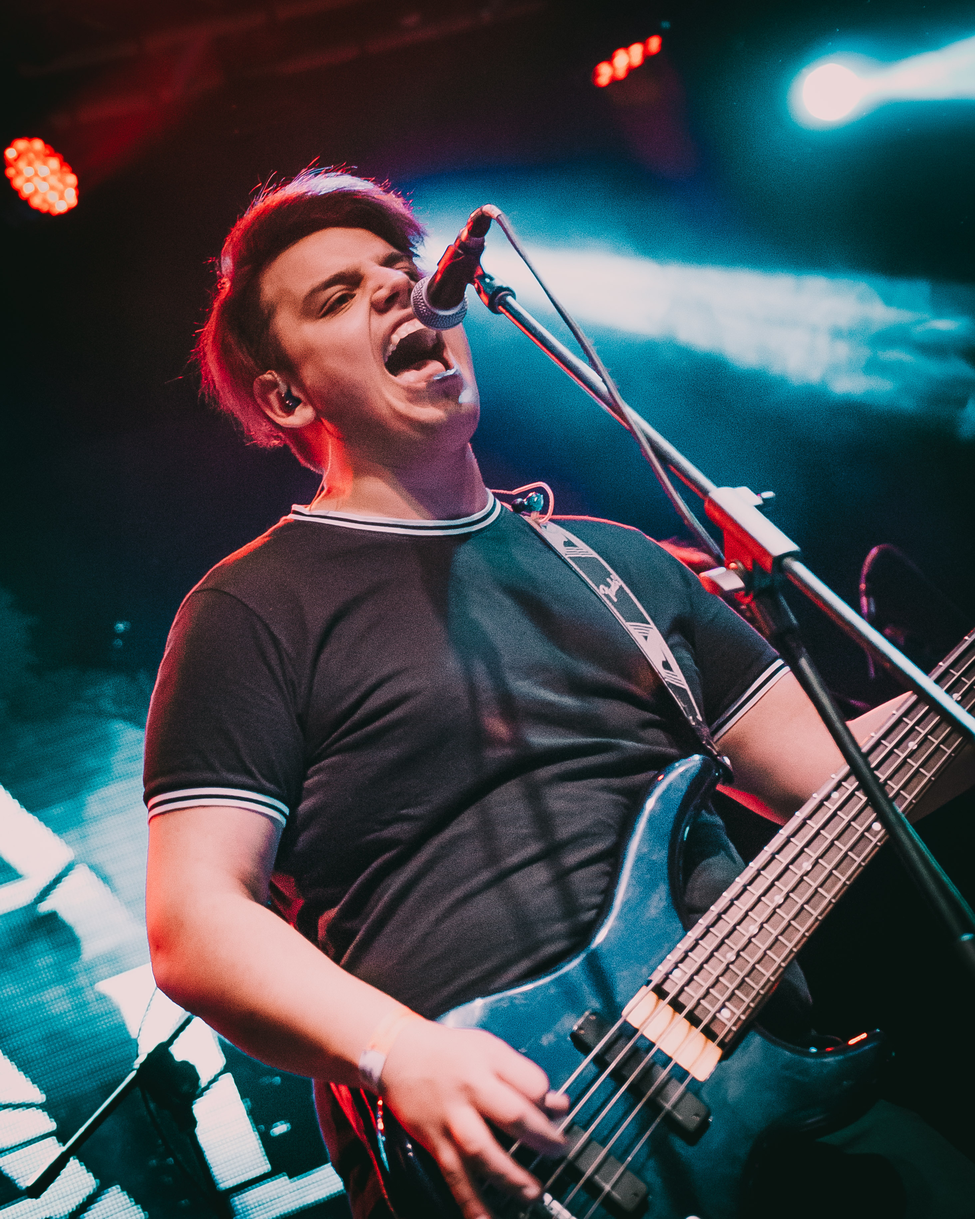
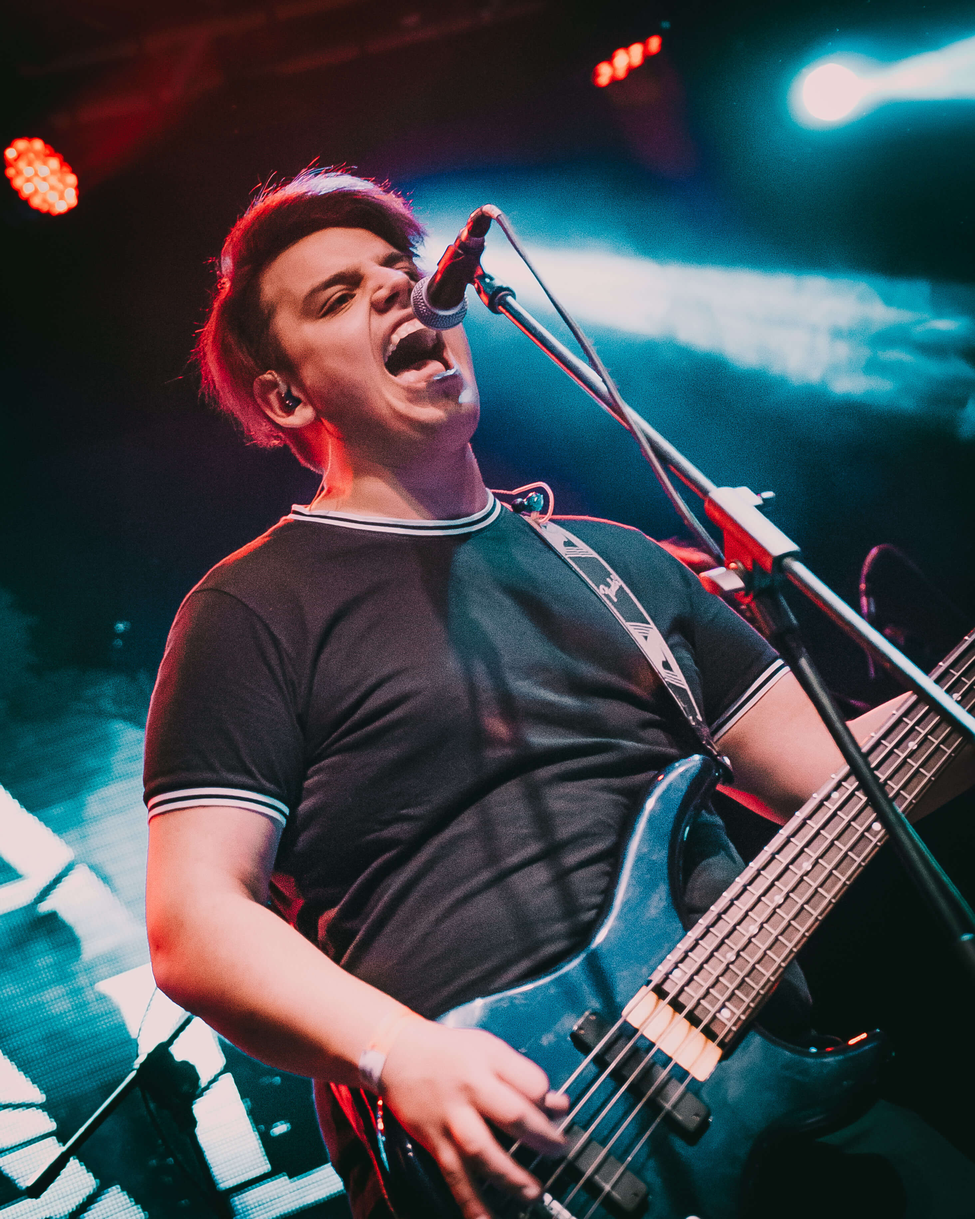
Agrego imagenes comprimidas

diff --git a/paginas/conocenos.html b/paginas/conocenos.html
@@ -1,6 +1,5 @@
 <!DOCTYPE html>
 <html lang="es">
-
 <head>
   <meta charset="UTF-8">
   <meta http-equiv="X-UA-Compatible" content="IE=edge">
@@ -14,13 +13,12 @@
   <link href="https://fonts.googleapis.com/css2?family=Roboto&display=swap" rel="stylesheet">
   <title>En la Verdad | Conocenos</title>
 </head>
-
 <body class="layout">
   <header class="encabezado">
     <nav class="navbar navbar-expand-lg navbar-light">
       <div class="container-fluid">
         <a class="navbar-brand" href="#">
-          <img src="../imagenes/Logo.png" alt="..." height="250">
+          <img src="../imagenes/Logo.png" alt="Logo de la banda" height="250">
         </a>
         <button class="navbar-toggler" type="button" data-bs-toggle="collapse" data-bs-target="#navbarNav"
           aria-controls="navbarNav" aria-expanded="false" aria-label="Toggle navigation">
@@ -55,19 +53,19 @@
         <div class="row">
           <div class="cards">
             <div class="card">
-              <img class="card-img" src="../imagenes/Joel.jpg" alt="">
+              <img class="card-img" src="../imagenes/Joel.jpg" alt="Foto Joel">
               <p class="card-desc"><strong>Joel Rivero</strong>.<br> Tiene 23 años, y es el engargado de las voces
                 guturales y el bajo. Sus influencias son del genero Nu Metal y Metalcore, bandas como "Linkin Park", "I
                 Prevail" y "Asking Alexandria". <br>Estudiante de Ingenieria Informatica y fanatico de San Lorenzo.</p>
             </div>
             <div class="card">
-              <img src="../imagenes/Lucas.jpg" alt="">
+              <img src="../imagenes/Lucas.jpg" alt="Foto Lucas">
               <p class="card-desc"><strong>Lucas Sosa</strong>.<br> Tiene 26 años, de Zona Norte y encargado de las 6
                 cuerdas. Sus influencias son del genero Metalcore y Post-Hardcore". <br>Tatuador, barbero y ferretero.
               </p>
             </div>
             <div class="card">
-              <img src="../imagenes/Elias.jpg" alt="">
+              <img src="../imagenes/Elias.jpg" alt="Foto Elias">
               <p class="card-desc"><strong>Elias Moreno</strong>.<br> 21 años, el menor de la banda y a cargo de la
                 segunda Guitarra. Sus influencias parten desde el Metalcore como "Wage War" y "Electric
                 Callboy"<br>Productor de Infinity Studios y de todo el contenido musical de En La Verdad </p>
@@ -77,15 +75,16 @@
         <div class="row">
           <div class="cards">
             <div class="card">
-              <img class="card-img" src="../imagenes/Alexis.jpg" alt="">
+              <img class="card-img" src="../imagenes/Alexis.jpg" alt="Foto Alexis">
               <p class="card-desc"><strong>Alexis Fusco</strong>.<br> Tiene 26 años, encargado de hacer ruido en la
                 Bateria y no dejar afinar a sus compañeros. Fanatico de Counterparts y de Boca<br></p>
             </div>
             <div class="card">
-              <img src="../imagenes/Javier.jpg" alt="">
+              <img src="../imagenes/Javier.jpg" alt="Foto Javier">
               <p class="card-desc"><strong>Javier Muñoz</strong>.<br> 26 años, de Zona Sur y el ultimo en sumarse a la
                 banda. <br> Con su Voz aporta lo melodico de la banda. Sus mayor influencia es Bring Me The Horizon.
-                <br> Perfil bajo y tranquilo pero con una creatividad asombrosa</p>
+                <br> Perfil bajo y tranquilo pero con una creatividad asombrosa
+              </p>
             </div>
           </div>
         </div>
@@ -97,22 +96,22 @@
       redes</div>
     <div class="container pt-1">
       <section class="mb-4">
-        <a class="btn btn-link btn-floating btn-lg text-white m-1" href="https://www.instagram.com/elv_oficial/" role="button"
-          data-mdb-ripple-color="dark"><i class="bi bi-instagram"></i></a>
-        <a class="btn btn-link btn-floating btn-lg text-white m-1" href="https://www.youtube.com/channel/UC6ehvfCDIocdnb-Q9tWUNMA" role="button"
-          data-mdb-ripple-color="dark"><i class="bi bi-youtube"></i></a>
-        <a class="btn btn-link btn-floating btn-lg text-white m-1" href="https://open.spotify.com/artist/7zrt5nT90clpSb9X8XtUqd?si=WhZ6xYAmTBC2sabjODp7Jw" role="button"
+        <a class="btn btn-link btn-floating btn-lg text-white m-1" href="https://www.instagram.com/elv_oficial/"
+          role="button" data-mdb-ripple-color="dark"><i class="bi bi-instagram"></i></a>
+        <a class="btn btn-link btn-floating btn-lg text-white m-1"
+          href="https://www.youtube.com/channel/UC6ehvfCDIocdnb-Q9tWUNMA" role="button" data-mdb-ripple-color="dark"><i
+            class="bi bi-youtube"></i></a>
+        <a class="btn btn-link btn-floating btn-lg text-white m-1"
+          href="https://open.spotify.com/artist/7zrt5nT90clpSb9X8XtUqd?si=WhZ6xYAmTBC2sabjODp7Jw" role="button"
           data-mdb-ripple-color="dark"><i class="bi bi-spotify"></i></a>
         <a class="btn btn-link btn-floating btn-lg text-white m-1" href="https://twitter.com/enlaverdad1" role="button"
           data-mdb-ripple-color="dark"><i class="bi bi-twitter"></i></a>
-        <a class="btn btn-link btn-floating btn-lg text-white m-1" href="https://www.tiktok.com/@enlaverdadoficial" role="button"
-          data-mdb-ripple-color="dark"><i class="bi bi-tiktok"></i></a>
+        <a class="btn btn-link btn-floating btn-lg text-white m-1" href="https://www.tiktok.com/@enlaverdadoficial"
+          role="button" data-mdb-ripple-color="dark"><i class="bi bi-tiktok"></i></a>
       </section>
     </div>
   </footer>
 </body>
-
 <script src="https://cdn.jsdelivr.net/npm/bootstrap@5.2.0-beta1/dist/js/bootstrap.bundle.min.js"
   integrity="sha384-pprn3073KE6tl6bjs2QrFaJGz5/SUsLqktiwsUTF55Jfv3qYSDhgCecCxMW52nD2" crossorigin="anonymous"></script>
-
 </html>

diff --git a/index.html b/index.html
@@ -20,7 +20,7 @@
     <nav class="navbar navbar-expand-lg navbar-light">
       <div class="container-fluid">
         <a class="navbar-brand" href="#">
-          <img src="./imagenes/Logo.png" alt="..." height="250">
+          <img src="./imagenes/Logo.png" alt="Logo de la banda" height="250">
         </a>
         <button class="navbar-toggler" type="button" data-bs-toggle="collapse" data-bs-target="#navbarNav"
           aria-controls="navbarNav" aria-expanded="false" aria-label="Toggle navigation">
@@ -55,13 +55,13 @@
       <div id="carouselExampleFade" class="carousel slide carousel-fade" data-bs-ride="carousel">
         <div class="carousel-inner">
           <div class="carousel-item active d-flex justify-content-center">
-            <img src="./imagenes/FotoCarrusel1.jpeg" class="d-block w-100" alt="...">
+            <img src="./imagenes/FotoCarrusel1.jpeg" class="d-block w-100" alt="Foto de la banda">
           </div>
           <div class="carousel-item d-flex justify-content-center">
-            <img src="./imagenes/FotoCarrusel2.jpg" class="d-block w-100" alt="...">
+            <img src="./imagenes/FotoCarrusel2.jpg" class="d-block w-100" alt="Foto de la banda 2">
           </div>
           <div class="carousel-item d-flex justify-content-center">
-            <img src="./imagenes/FotoCarrusel3.jpg" class="d-block w-100" alt="...">
+            <img src="./imagenes/FotoCarrusel3.jpg" class="d-block w-100" alt="Foto de la banda 3">
           </div>
         </div>
         <button class="carousel-control-prev" type="button" data-bs-target="#carouselExampleFade" data-bs-slide="prev">
@@ -74,7 +74,6 @@
         </button>
       </div>
     </div>
-
     <div class="container-md">
       <div class="row justify-content-center">
         <div class="col-sm-5">
@@ -105,29 +104,27 @@
       </div>
     </div>
   </main>
-
   <footer class="text-center text-white bg-dark">
     <div class="text-left text-white p-3" style="background-color: rgba(0, 0, 0, 0.2);">Encontranos tambien en
       nuestras redes</div>
     <div class="container pt-1">
       <section class="mb-4">
-        <a class="btn btn-link btn-floating btn-lg text-white m-1" href="https://www.instagram.com/elv_oficial/" role="button"
-          data-mdb-ripple-color="dark"><i class="bi bi-instagram"></i></a>
-        <a class="btn btn-link btn-floating btn-lg text-white m-1" href="https://www.youtube.com/channel/UC6ehvfCDIocdnb-Q9tWUNMA" role="button"
-          data-mdb-ripple-color="dark"><i class="bi bi-youtube"></i></a>
-        <a class="btn btn-link btn-floating btn-lg text-white m-1" href="https://open.spotify.com/artist/7zrt5nT90clpSb9X8XtUqd?si=WhZ6xYAmTBC2sabjODp7Jw" role="button"
+        <a class="btn btn-link btn-floating btn-lg text-white m-1" href="https://www.instagram.com/elv_oficial/"
+          role="button" data-mdb-ripple-color="dark"><i class="bi bi-instagram"></i></a>
+        <a class="btn btn-link btn-floating btn-lg text-white m-1"
+          href="https://www.youtube.com/channel/UC6ehvfCDIocdnb-Q9tWUNMA" role="button" data-mdb-ripple-color="dark"><i
+            class="bi bi-youtube"></i></a>
+        <a class="btn btn-link btn-floating btn-lg text-white m-1"
+          href="https://open.spotify.com/artist/7zrt5nT90clpSb9X8XtUqd?si=WhZ6xYAmTBC2sabjODp7Jw" role="button"
           data-mdb-ripple-color="dark"><i class="bi bi-spotify"></i></a>
         <a class="btn btn-link btn-floating btn-lg text-white m-1" href="https://twitter.com/enlaverdad1" role="button"
           data-mdb-ripple-color="dark"><i class="bi bi-twitter"></i></a>
-        <a class="btn btn-link btn-floating btn-lg text-white m-1" href="https://www.tiktok.com/@enlaverdadoficial" role="button"
-          data-mdb-ripple-color="dark"><i class="bi bi-tiktok"></i></a>
+        <a class="btn btn-link btn-floating btn-lg text-white m-1" href="https://www.tiktok.com/@enlaverdadoficial"
+          role="button" data-mdb-ripple-color="dark"><i class="bi bi-tiktok"></i></a>
       </section>
     </div>
   </footer>
-
 </body>
-
 <script src="https://cdn.jsdelivr.net/npm/bootstrap@5.2.0-beta1/dist/js/bootstrap.bundle.min.js"
   integrity="sha384-pprn3073KE6tl6bjs2QrFaJGz5/SUsLqktiwsUTF55Jfv3qYSDhgCecCxMW52nD2" crossorigin="anonymous"></script>
-
 </html>

diff --git a/paginas/eventos.html b/paginas/eventos.html
@@ -19,7 +19,7 @@
     <nav class="navbar navbar-expand-lg navbar-light">
       <div class="container-fluid">
         <a class="navbar-brand" href="#">
-          <img src="../imagenes/Logo.png" alt="..." height="250">
+          <img src="../imagenes/Logo.png" alt="Logo de la banda" height="250">
         </a>
         <button class="navbar-toggler" type="button" data-bs-toggle="collapse" data-bs-target="#navbarNav"
           aria-controls="navbarNav" aria-expanded="false" aria-label="Toggle navigation">
@@ -55,7 +55,7 @@
           <div class="card-body">
             <h5 class="card-title">30 DE JULIO - HUMBOLT</h5>
           </div>
-          <img src="../imagenes/Humbolt.png" class="card-img-top" alt="...">
+          <img src="../imagenes/Humbolt.png" class="card-img-top" alt="Flyer fecha del 30 de julio">
           <ul class="list-group list-group-flush">
             <li class="list-group-item">Humbolt Niceto Club</li>
             <li class="list-group-item">Horario: 19hs</li>
@@ -70,7 +70,8 @@
           <div class="card-body">
             <h5 class="card-title">13 DE AGOSTO - AUDITORIO OESTE</h5>
           </div>
-          <img src="../imagenes/AuditorioOeste.jpg" class="card-img-top" alt="..." id="imagenEventos">
+          <img src="../imagenes/AuditorioOeste.jpg" class="card-img-top" alt="Flyer de fecha del 30 de agosto"
+            id="imagenEventos">
           <ul class="list-group list-group-flush">
             <li class="list-group-item">Auditorio Oeste</li>
             <li class="list-group-item">Horario: 19hs</li>
@@ -89,16 +90,18 @@
       redes</div>
     <div class="container pt-1">
       <section class="mb-4">
-        <a class="btn btn-link btn-floating btn-lg text-white m-1" href="https://www.instagram.com/elv_oficial/" role="button"
-          data-mdb-ripple-color="dark"><i class="bi bi-instagram"></i></a>
-        <a class="btn btn-link btn-floating btn-lg text-white m-1" href="https://www.youtube.com/channel/UC6ehvfCDIocdnb-Q9tWUNMA" role="button"
-          data-mdb-ripple-color="dark"><i class="bi bi-youtube"></i></a>
-        <a class="btn btn-link btn-floating btn-lg text-white m-1" href="https://open.spotify.com/artist/7zrt5nT90clpSb9X8XtUqd?si=WhZ6xYAmTBC2sabjODp7Jw" role="button"
+        <a class="btn btn-link btn-floating btn-lg text-white m-1" href="https://www.instagram.com/elv_oficial/"
+          role="button" data-mdb-ripple-color="dark"><i class="bi bi-instagram"></i></a>
+        <a class="btn btn-link btn-floating btn-lg text-white m-1"
+          href="https://www.youtube.com/channel/UC6ehvfCDIocdnb-Q9tWUNMA" role="button" data-mdb-ripple-color="dark"><i
+            class="bi bi-youtube"></i></a>
+        <a class="btn btn-link btn-floating btn-lg text-white m-1"
+          href="https://open.spotify.com/artist/7zrt5nT90clpSb9X8XtUqd?si=WhZ6xYAmTBC2sabjODp7Jw" role="button"
           data-mdb-ripple-color="dark"><i class="bi bi-spotify"></i></a>
         <a class="btn btn-link btn-floating btn-lg text-white m-1" href="https://twitter.com/enlaverdad1" role="button"
           data-mdb-ripple-color="dark"><i class="bi bi-twitter"></i></a>
-        <a class="btn btn-link btn-floating btn-lg text-white m-1" href="https://www.tiktok.com/@enlaverdadoficial" role="button"
-          data-mdb-ripple-color="dark"><i class="bi bi-tiktok"></i></a>
+        <a class="btn btn-link btn-floating btn-lg text-white m-1" href="https://www.tiktok.com/@enlaverdadoficial"
+          role="button" data-mdb-ripple-color="dark"><i class="bi bi-tiktok"></i></a>
       </section>
     </div>
   </footer>

diff --git a/paginas/multimedia.html b/paginas/multimedia.html
@@ -19,9 +19,9 @@
         <nav class="navbar navbar-expand-lg navbar-light">
             <div class="container-fluid">
                 <a class="navbar-brand" href="#">
-                    <img src="../imagenes/Logo.png" alt="..." height="250">
+                    <img src="../imagenes/Logo.png" alt="Logo de la banda" height="250">
                 </a>
-                <button class="navbar-toggler d-flex aling-middle" type="button" data-bs-toggle="collapse"
+                <button class="navbar-toggler" type="button" data-bs-toggle="collapse"
                     data-bs-target="#navbarNav" aria-controls="navbarNav" aria-expanded="false"
                     aria-label="Toggle navigation">
                     <span class="navbar-toggler-icon"></span>
@@ -115,16 +115,19 @@
             nuestras redes</div>
         <div class="container pt-1">
             <section class="mb-4">
-              <a class="btn btn-link btn-floating btn-lg text-white m-1" href="https://www.instagram.com/elv_oficial/" role="button"
-                data-mdb-ripple-color="dark"><i class="bi bi-instagram"></i></a>
-              <a class="btn btn-link btn-floating btn-lg text-white m-1" href="https://www.youtube.com/channel/UC6ehvfCDIocdnb-Q9tWUNMA" role="button"
-                data-mdb-ripple-color="dark"><i class="bi bi-youtube"></i></a>
-              <a class="btn btn-link btn-floating btn-lg text-white m-1" href="https://open.spotify.com/artist/7zrt5nT90clpSb9X8XtUqd?si=WhZ6xYAmTBC2sabjODp7Jw" role="button"
-                data-mdb-ripple-color="dark"><i class="bi bi-spotify"></i></a>
-              <a class="btn btn-link btn-floating btn-lg text-white m-1" href="https://twitter.com/enlaverdad1" role="button"
-                data-mdb-ripple-color="dark"><i class="bi bi-twitter"></i></a>
-              <a class="btn btn-link btn-floating btn-lg text-white m-1" href="https://www.tiktok.com/@enlaverdadoficial" role="button"
-                data-mdb-ripple-color="dark"><i class="bi bi-tiktok"></i></a>
+                <a class="btn btn-link btn-floating btn-lg text-white m-1" href="https://www.instagram.com/elv_oficial/"
+                    role="button" data-mdb-ripple-color="dark"><i class="bi bi-instagram"></i></a>
+                <a class="btn btn-link btn-floating btn-lg text-white m-1"
+                    href="https://www.youtube.com/channel/UC6ehvfCDIocdnb-Q9tWUNMA" role="button"
+                    data-mdb-ripple-color="dark"><i class="bi bi-youtube"></i></a>
+                <a class="btn btn-link btn-floating btn-lg text-white m-1"
+                    href="https://open.spotify.com/artist/7zrt5nT90clpSb9X8XtUqd?si=WhZ6xYAmTBC2sabjODp7Jw"
+                    role="button" data-mdb-ripple-color="dark"><i class="bi bi-spotify"></i></a>
+                <a class="btn btn-link btn-floating btn-lg text-white m-1" href="https://twitter.com/enlaverdad1"
+                    role="button" data-mdb-ripple-color="dark"><i class="bi bi-twitter"></i></a>
+                <a class="btn btn-link btn-floating btn-lg text-white m-1"
+                    href="https://www.tiktok.com/@enlaverdadoficial" role="button" data-mdb-ripple-color="dark"><i
+                        class="bi bi-tiktok"></i></a>
             </section>
         </div>
     </footer>

diff --git a/paginas/contacto.html b/paginas/contacto.html
@@ -19,7 +19,7 @@
     <nav class="navbar navbar-expand-lg navbar-light">
       <div class="container-fluid">
         <a class="navbar-brand" href="#">
-          <img src="../imagenes/Logo.png" alt="..." height="250">
+          <img src="../imagenes/Logo.png" alt="Logo de la banda" height="250">
         </a>
         <button class="navbar-toggler" type="button" data-bs-toggle="collapse" data-bs-target="#navbarNav"
           aria-controls="navbarNav" aria-expanded="false" aria-label="Toggle navigation">
@@ -110,16 +110,18 @@
       redes</div>
     <div class="container pt-1">
       <section class="mb-4">
-        <a class="btn btn-link btn-floating btn-lg text-white m-1" href="https://www.instagram.com/elv_oficial/" role="button"
-          data-mdb-ripple-color="dark"><i class="bi bi-instagram"></i></a>
-        <a class="btn btn-link btn-floating btn-lg text-white m-1" href="https://www.youtube.com/channel/UC6ehvfCDIocdnb-Q9tWUNMA" role="button"
-          data-mdb-ripple-color="dark"><i class="bi bi-youtube"></i></a>
-        <a class="btn btn-link btn-floating btn-lg text-white m-1" href="https://open.spotify.com/artist/7zrt5nT90clpSb9X8XtUqd?si=WhZ6xYAmTBC2sabjODp7Jw" role="button"
+        <a class="btn btn-link btn-floating btn-lg text-white m-1" href="https://www.instagram.com/elv_oficial/"
+          role="button" data-mdb-ripple-color="dark"><i class="bi bi-instagram"></i></a>
+        <a class="btn btn-link btn-floating btn-lg text-white m-1"
+          href="https://www.youtube.com/channel/UC6ehvfCDIocdnb-Q9tWUNMA" role="button" data-mdb-ripple-color="dark"><i
+            class="bi bi-youtube"></i></a>
+        <a class="btn btn-link btn-floating btn-lg text-white m-1"
+          href="https://open.spotify.com/artist/7zrt5nT90clpSb9X8XtUqd?si=WhZ6xYAmTBC2sabjODp7Jw" role="button"
           data-mdb-ripple-color="dark"><i class="bi bi-spotify"></i></a>
         <a class="btn btn-link btn-floating btn-lg text-white m-1" href="https://twitter.com/enlaverdad1" role="button"
           data-mdb-ripple-color="dark"><i class="bi bi-twitter"></i></a>
-        <a class="btn btn-link btn-floating btn-lg text-white m-1" href="https://www.tiktok.com/@enlaverdadoficial" role="button"
-          data-mdb-ripple-color="dark"><i class="bi bi-tiktok"></i></a>
+        <a class="btn btn-link btn-floating btn-lg text-white m-1" href="https://www.tiktok.com/@enlaverdadoficial"
+          role="button" data-mdb-ripple-color="dark"><i class="bi bi-tiktok"></i></a>
       </section>
     </div>
   </footer>
